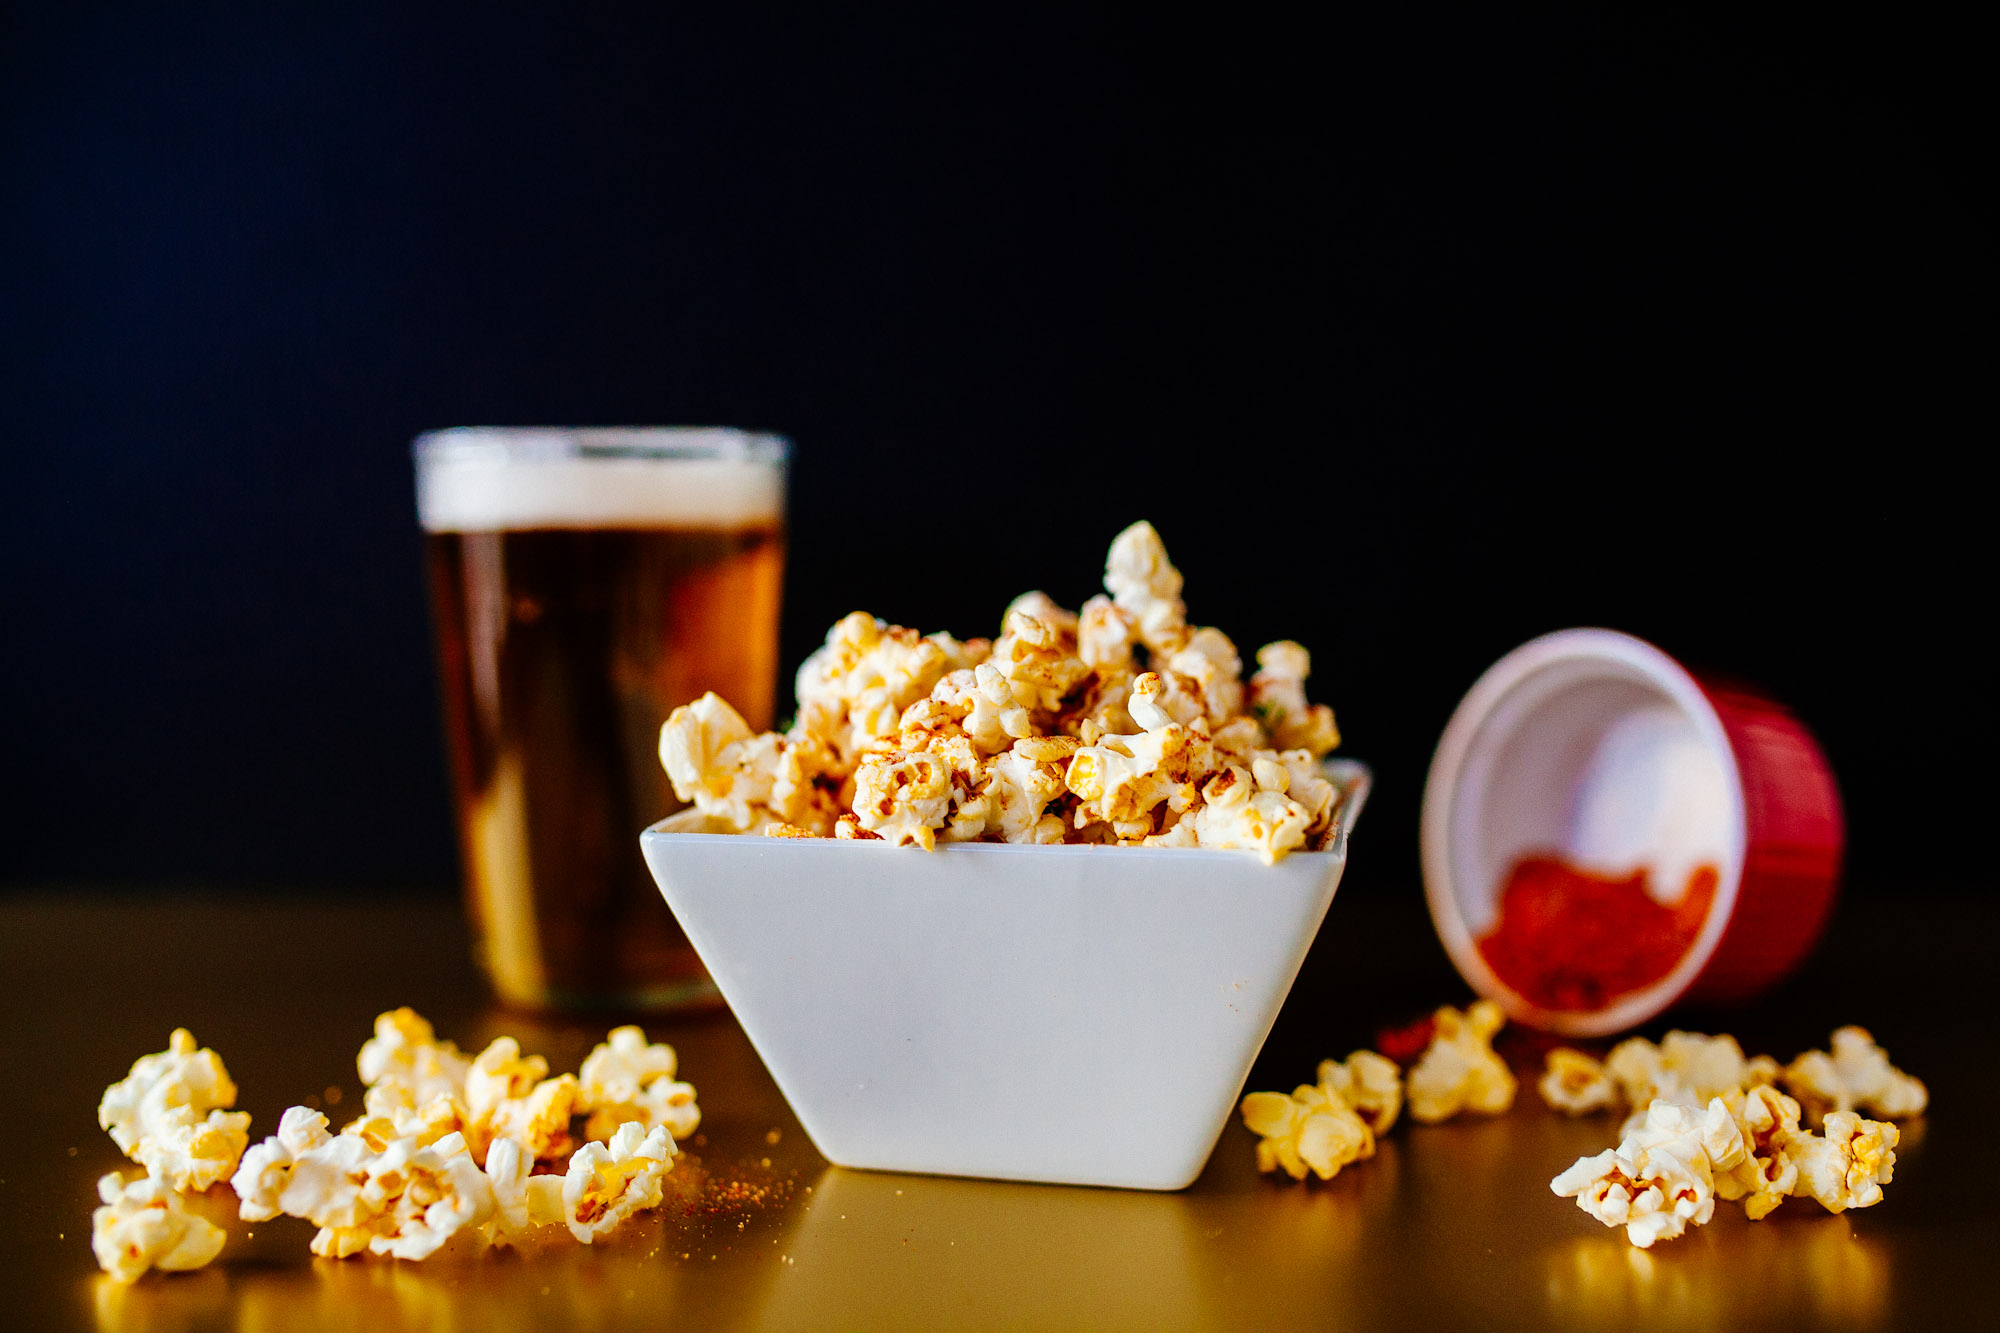
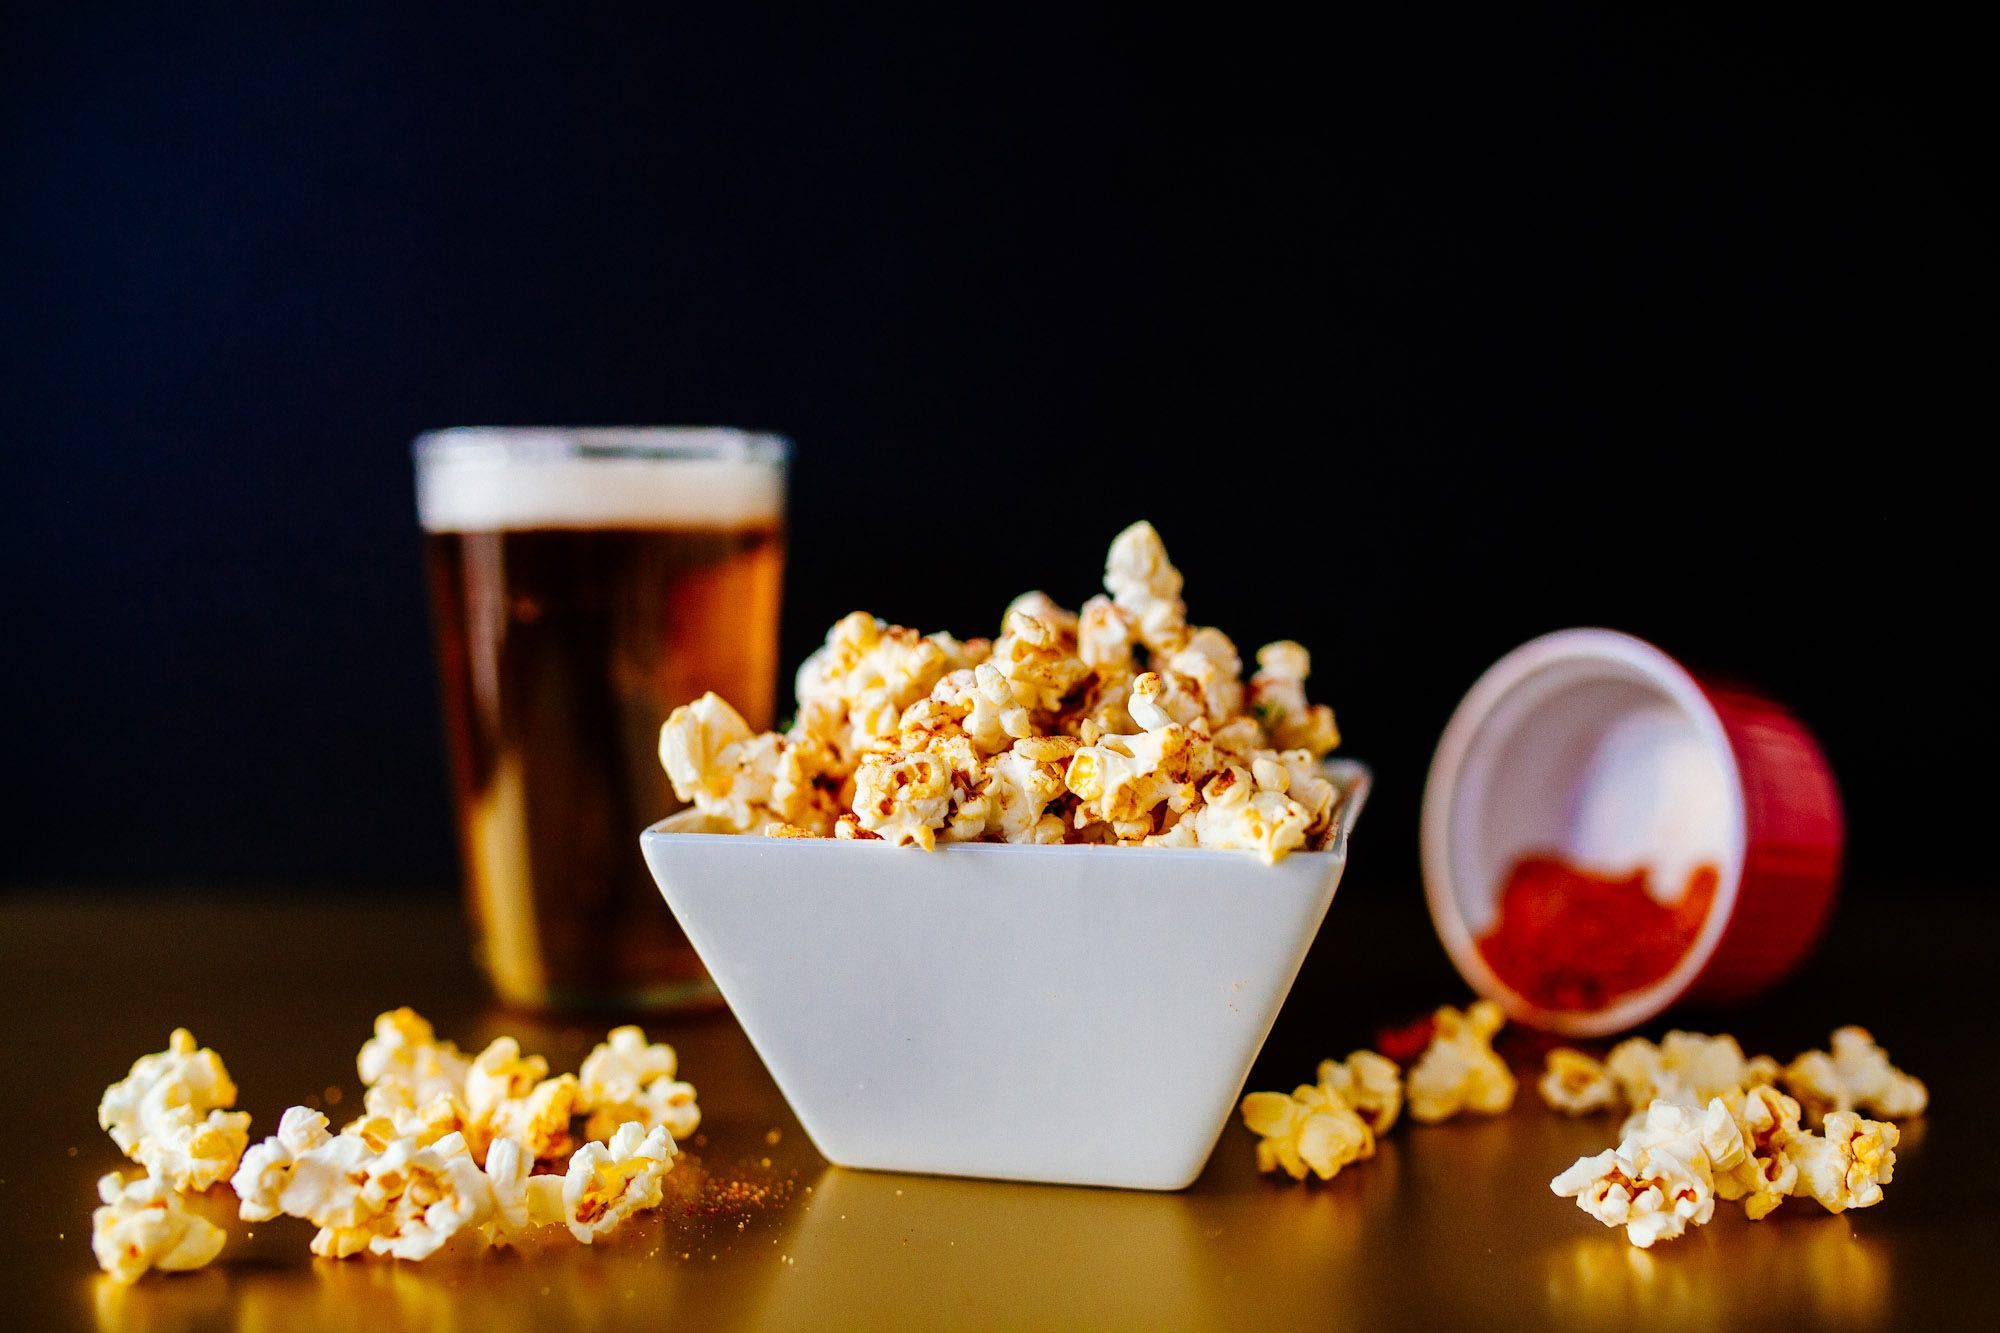
Compress pictures

Changed region(s): [[0.434, 0.5229, 0.558, 0.6152], [0.589, 0.5844, 0.62, 0.6152]]

diff --git a/index.html b/index.html
@@ -101,7 +101,7 @@
     <section id="about" class="container content-section text-center">
             <div class="col-lg-8 col-lg-offset-2">
                 <h2>Enchanté!</h2>
-                <img src="img/profile-pic.jpg" alt="Pierre-Guillaume Laurin" class="pic-wrapper"></img>
+                <img src="img/profile-pic-min.jpg" alt="Pierre-Guillaume Laurin" class="pic-wrapper"></img>
                 <p>Moi c'est Pierre-Guillaume et je suis développeur web</p>
             </div>
     </section>
@@ -153,7 +153,7 @@
                 
                 <p>Ça m'arrive <a target="_blank" href="https://medium.com/@pierreguillaumelaurin/uber-must-change-its-narrative-in-quebec-a5f1ca7a6c1b#.r9afa4387">d'écrire à ce sujet</a></p>
                 <p>Ça arrive qu'on <a target="_blank" href="http://www.tonpetitlook.com/fr/2015/04/10/limonade-impromptue-printemps-nous-voici">parle de mes projets un peu fous</a></p>
-                <p>Ça m'est arrivé d'étudié là-dedans</p>
+                <p>Ça m'est arrivé d'étudier là-dedans</p>
 
                 <ul class="list-inline banner-social-buttons">
                     <li>

diff --git a/css/grayscale.css b/css/grayscale.css
@@ -161,15 +161,15 @@ a:focus,
     padding: 100px 0;
     text-align: center;
     color: #fff;
-    
+    /*
     background: 
       -moz-linear-gradient(rgba(255, 0, 0, 0.5)),
       url(../img/beer-popcorn.jpg) no-repeat bottom center scroll;
       
     background:
-      -webkit-gradient(-45deg,red,green),
+      -webkit-linear-gradient(rgba(255, 0, 0, 0.5)),
       url(../img/beer-popcorn.jpg) no-repeat bottom center scroll;
-      
+     */ 
     background:
       linear-gradient(
       rgba(140, 100, 100, 0.45), 
@@ -385,7 +385,7 @@ a:focus,
     .technical-section {
         padding: 100px 0;
     }
-
+    
     .marketing-section {
         padding: 6% 0 29% 0;
     }
